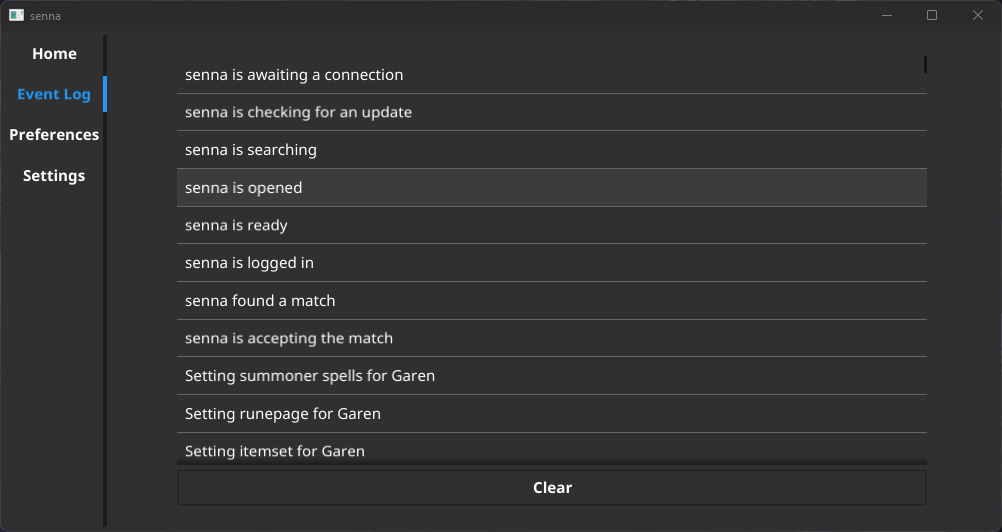
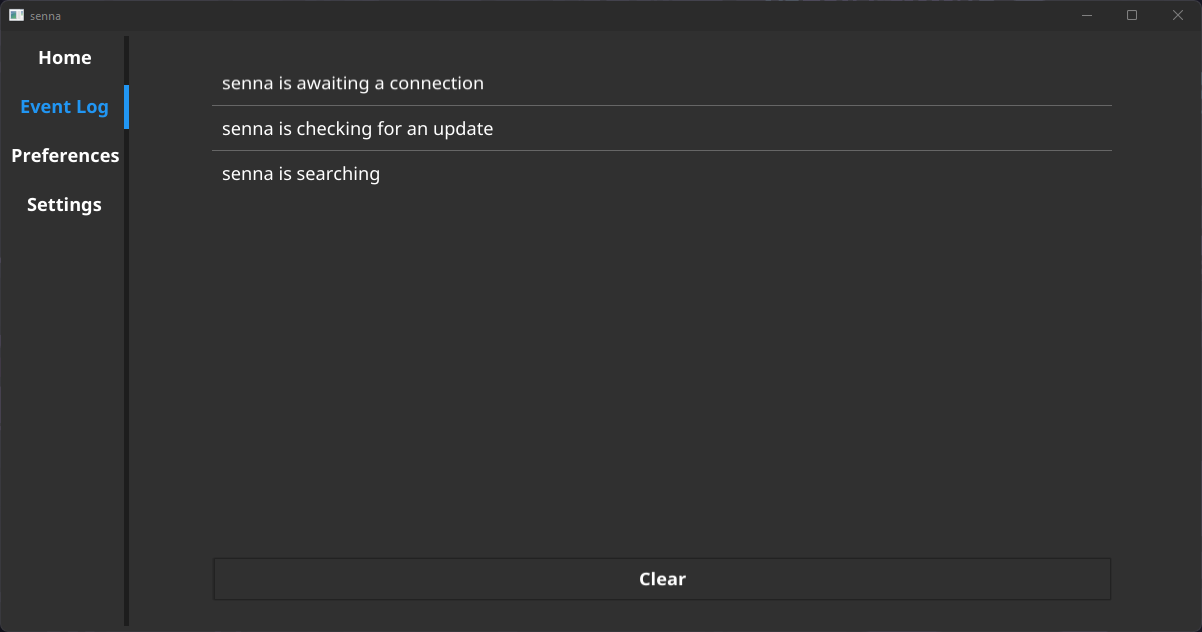
Update

diff --git a/ui/ui.go b/ui/ui.go
@@ -23,6 +23,8 @@ type (
 )
 
 func NewUI() *UI {
+	os.Setenv("FYNE_SCALE", "1.2")
+
 	app := app.New()
 	window := app.NewWindow("senna")
 

diff --git a/README.md b/README.md
@@ -27,4 +27,4 @@ A tool to automate League of Legends
 ## Note
 
 - senna is a personal project, and while it is functional, a personal API is required to use it
-- The purpose of this application is to demonstrate the possibilities when using [asol](https://github.com/braycarlson/asol)
+- The purpose of this application is to demonstrate how to use [asol](https://github.com/braycarlson/asol)
